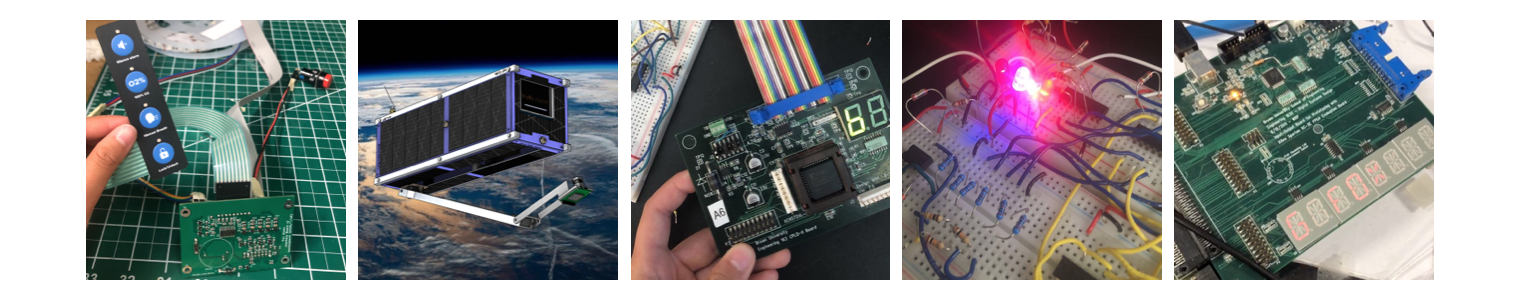
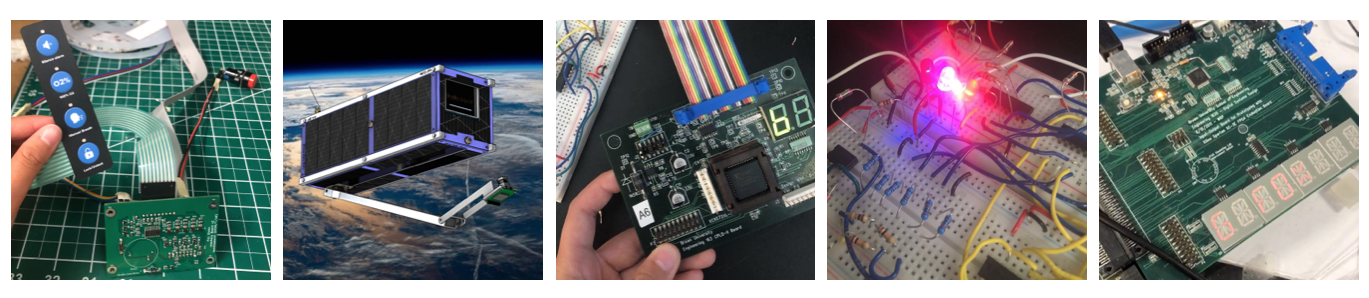
center text

diff --git a/software.md b/software.md
@@ -1,5 +1,5 @@
 # Software
-
+<p style="text-align:center">
 ## Python
 [RISC-V Assembler](/mov/Assembler.mov)
 <img src="images/Assembler.png?raw=true" class="center">
@@ -14,3 +14,5 @@
 
 [DoodleJump](/mov/DoodleJump.mov) <br>
 <img src="images/DoodleJump.png" style="width:340px;" > <br>
+
+</p>

diff --git a/index.md b/index.md
@@ -1,8 +1,11 @@
 # Portfolio
 ---
+<p style="text-align:center">
 
 [Hardware](/hardware.md)
 <img src="images/Hardware.png?raw=true" style="width:480px;">
 
 [Software](/software.md)
 <img src="images/Software.png?raw=true" style="width:480px;">
+
+</p>
